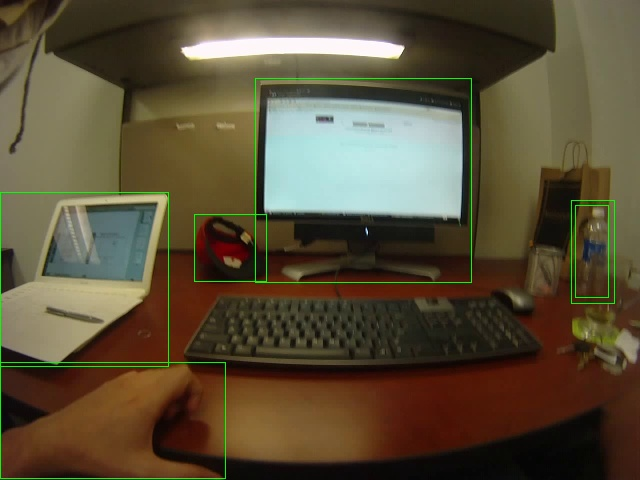
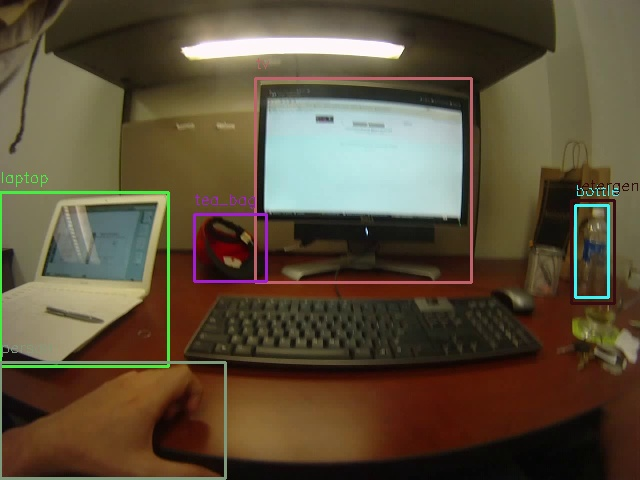
Viendo resultados

Changed region(s): [[0.0, 0.1562, 0.75, 1.0], [0.875, 0.375, 1.0, 0.6562]]

diff --git a/ADL/seeresults.py b/ADL/seeresults.py
@@ -1,0 +1,35 @@
+import cv2
+import torch
+import json
+import random
+
+# Cargar la imagen
+image_path = '/dataset/rgb_frames/P_11/000000.jpg'
+image = cv2.imread(image_path)
+
+# Cargar el label map
+with open('../config/label_map_extended_test.json', 'r') as file:
+    label_map = json.load(file)
+
+# Cargar el objeto con las cajas detectadas
+model_path = '../resultados/pre_finetunning/Version Oficial/results-0.pkl'
+object = torch.load(model_path)
+
+# Iterar por cada bounding box
+for bbox_data in object['res_info'][0]:
+    # Se espera que bbox_data tenga el formato: [x1, y1, x2, y2, confidence, label]
+    x1, y1, x2, y2, confidence, label = bbox_data
+    if confidence > 0.35:
+        label_str = label_map[str(int(label))]
+        print(f'Label: {label_str}, Confidence: {confidence}')
+        
+        # Generar un color aleatorio (en formato BGR, como lo usa OpenCV)
+        color = (random.randint(0, 255), random.randint(0, 255), random.randint(0, 255))
+        
+        # Dibujar la caja y agregar el texto usando el mismo color
+        cv2.rectangle(image, (int(x1), int(y1)), (int(x2), int(y2)), color, 2)
+        cv2.putText(image, label_str, (int(x1), int(y1)-10), 
+                    cv2.FONT_HERSHEY_SIMPLEX, 0.5, color, 1)
+
+# Guardar la imagen con las cajas
+cv2.imwrite('../resultados/bbox.jpg', image)
